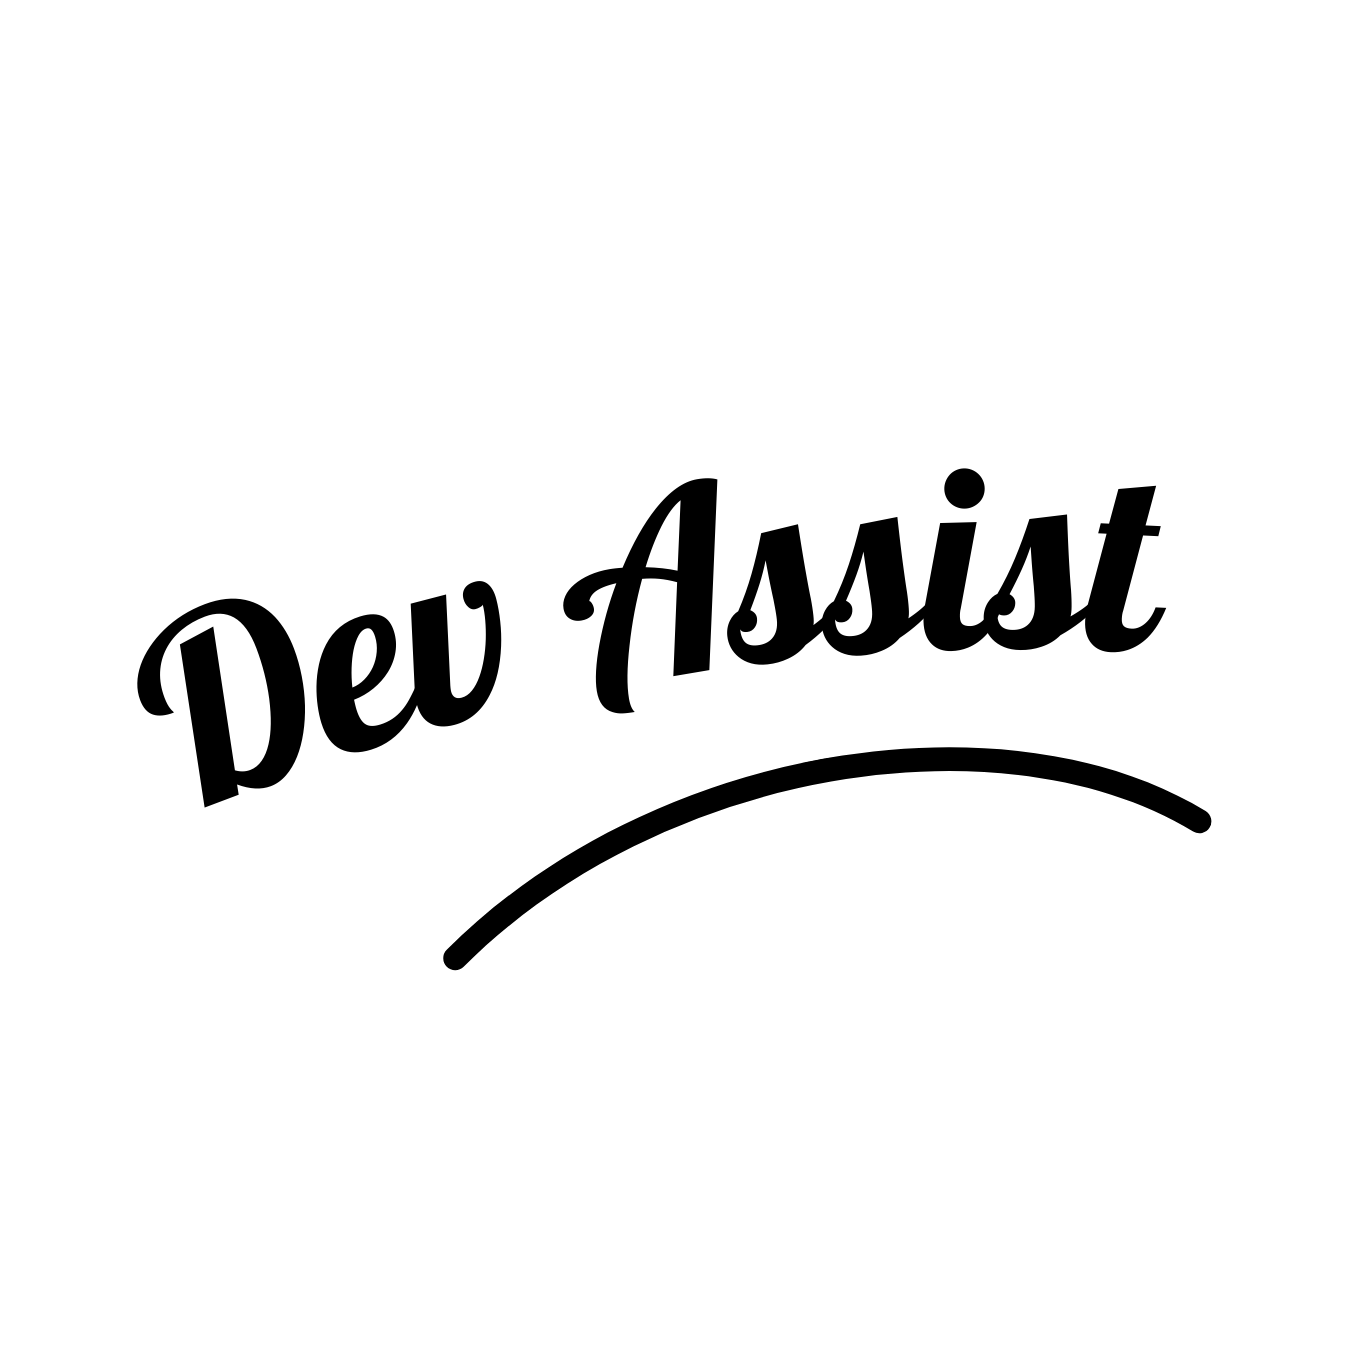
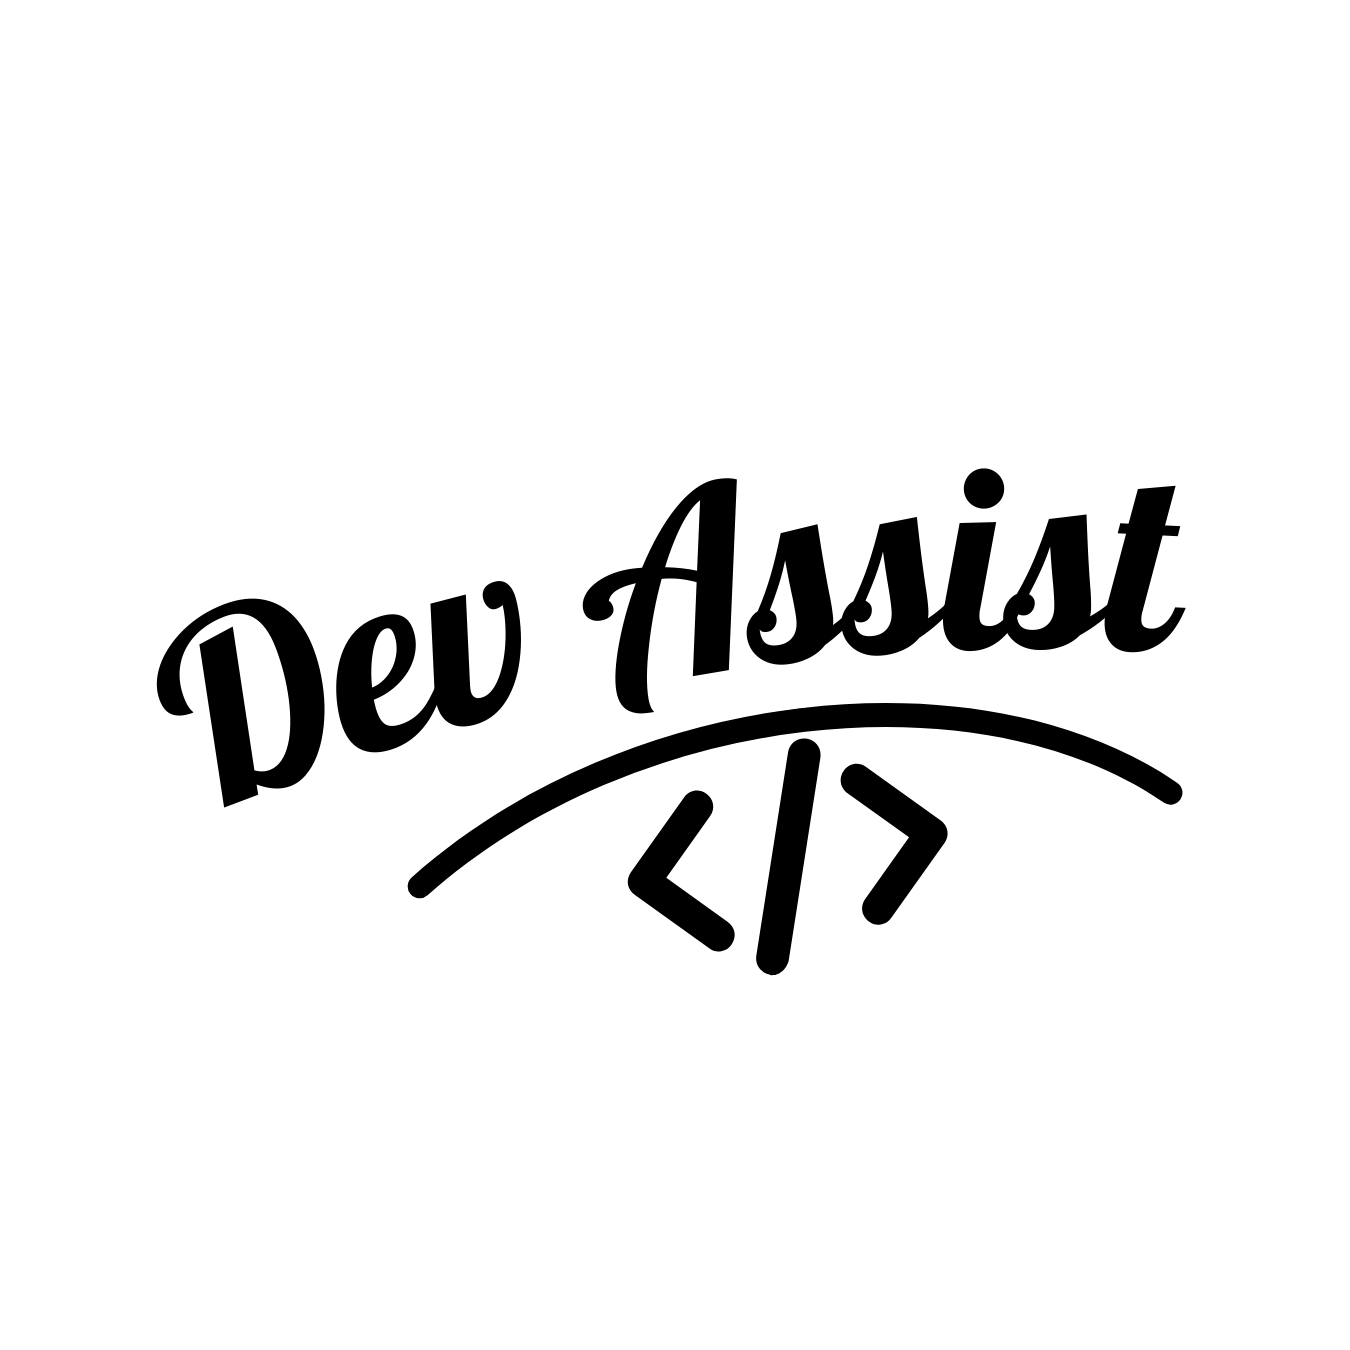
a

Changed region(s): [[0.0933, 0.3422, 0.9022, 0.7467]]

diff --git a/index.html b/index.html
@@ -11,7 +11,7 @@
 
 <body>
     <header>
-        <img src="img/1.png" alt="">
+        <img class="logo" src="img/2.png" alt="">
         <h1>Dev Assist</h1>
         <div class="menu-toggle" onclick="toggleMenu()">
             <span></span>

diff --git a/style.css b/style.css
@@ -3,6 +3,11 @@
     padding: 0;
     box-sizing: border-box;
 }
+.logo{
+    width: 100px;
+    height: 100px;
+    border-radius: 50%;
+}
 body {
     font-family: Arial, sans-serif;
 }
